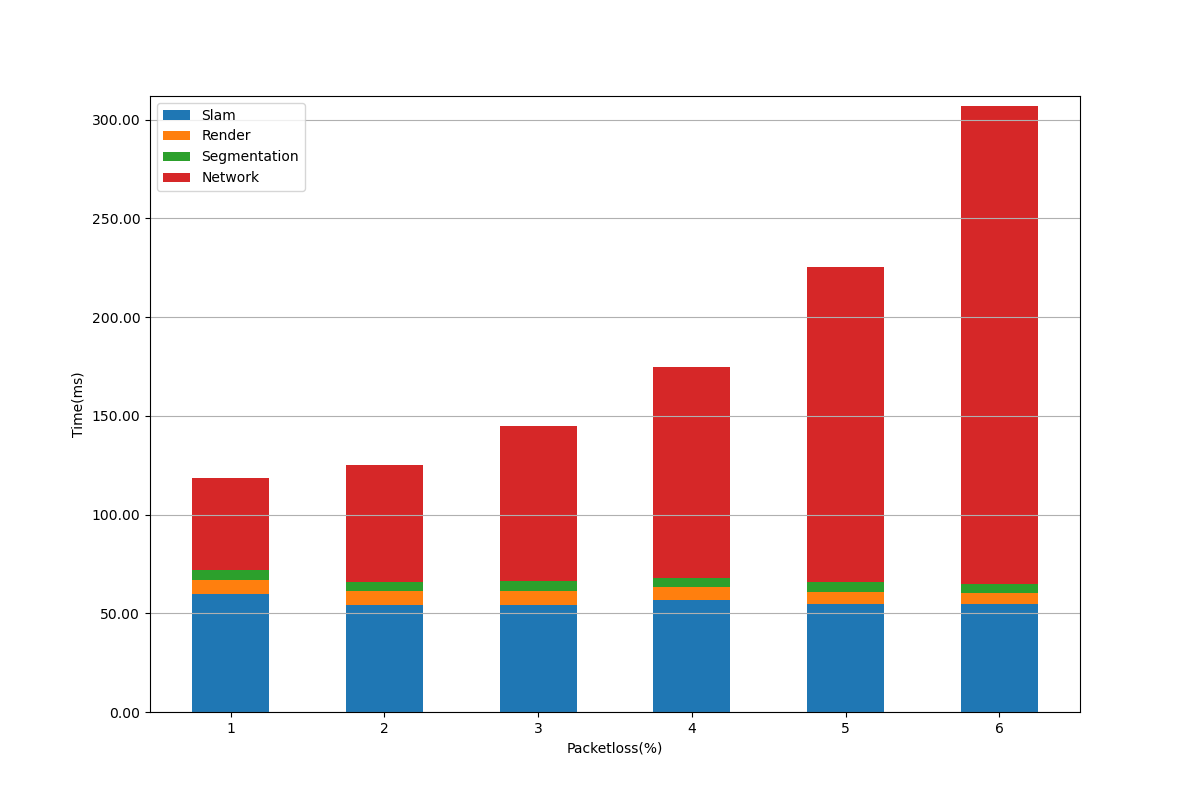
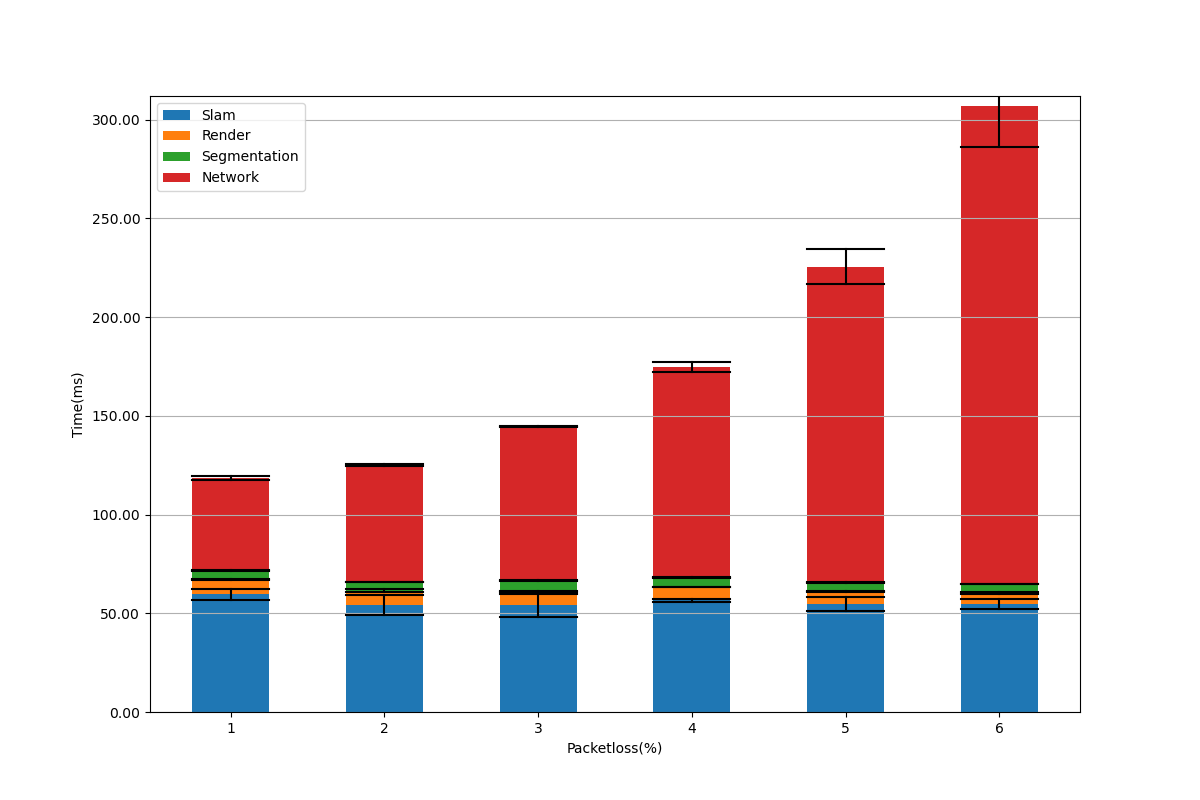
intervalos confiança barras

diff --git a/processResults/graphs_generator.py b/processResults/graphs_generator.py
@@ -61,13 +61,16 @@ def gen_bar_plot(statistic, raw_data, case, legend):
     if statistic == 'rate':
         plt.xlabel("Bandwidth(Mbps)")
         column_width = 20
+        horizontal_line_width=10
     if statistic == 'delay':
         plt.xlabel("Delay(ms)")
         column_width = 2
+        horizontal_line_width=1
 
     if statistic == 'loss':
         plt.xlabel("Packetloss(%)")
         column_width = 0.5
+        horizontal_line_width=0.5
     
     for key in raw_data.keys():    
         data[key] = raw_data[key].copy(deep= True)
@@ -80,8 +83,21 @@ def gen_bar_plot(statistic, raw_data, case, legend):
         x = list(data.keys())
         y = [data[key][label]['mean'] for key in x]
         y = np.array([0 if math.isnan(item) else item for item in y])
+        
+        lower_limit = [data[key][label]['lower'] for key in x] + bottom
+        upper_limit = [data[key][label]['upper'] for key in x] + bottom
+        left = [key - horizontal_line_width/2 for key in x]
+        right = [key + horizontal_line_width/2 for key in x]
+
+        
         plt.xticks(x)
         ax.bar(x, y, label=label, bottom= bottom, width= column_width)
+        
+        for i in range(len(x)):
+            plt.plot([x[i], x[i]], [upper_limit[i], lower_limit[i]], color = 'black')
+            plt.plot([left[i], right[i]], [upper_limit[i], upper_limit[i]], color = 'black')
+            plt.plot([left[i], right[i]], [lower_limit[i], lower_limit[i]], color = 'black')   
+        
         bottom += y
     
     plt.ylim([0, max(bottom) + 5])    
